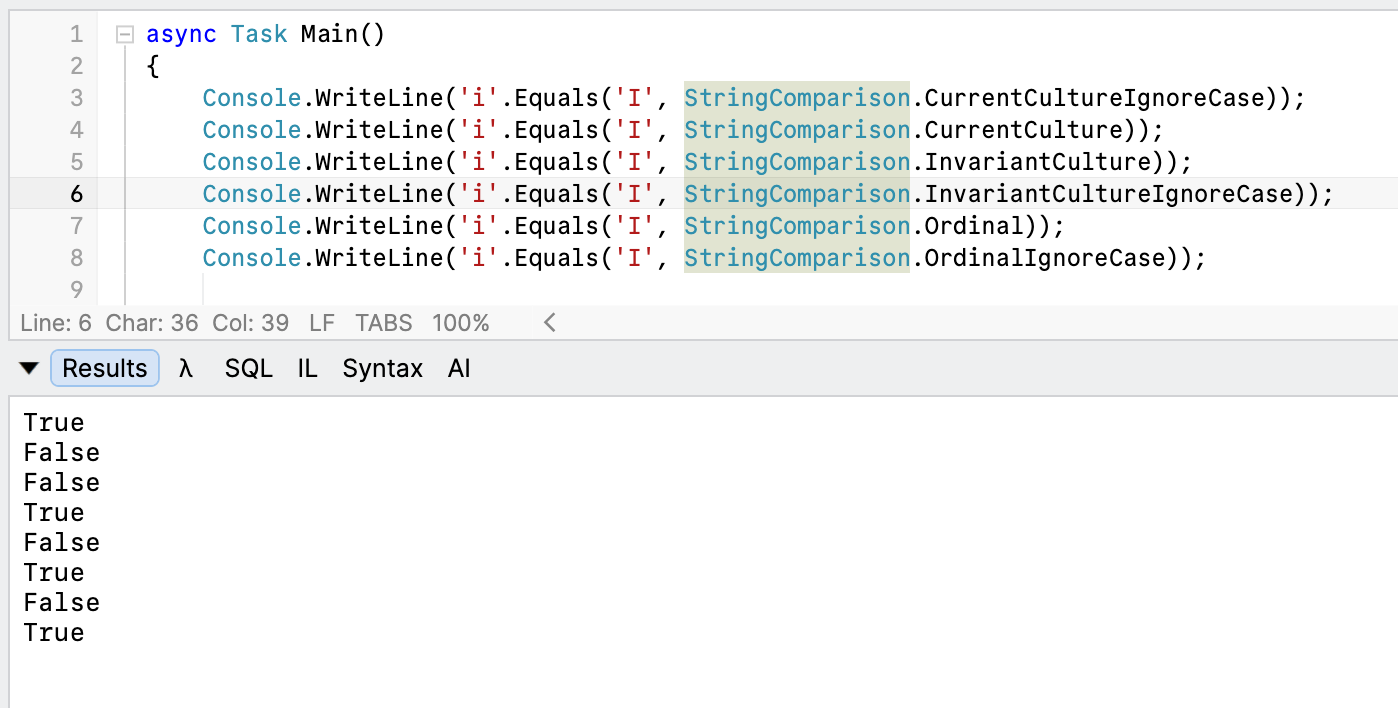
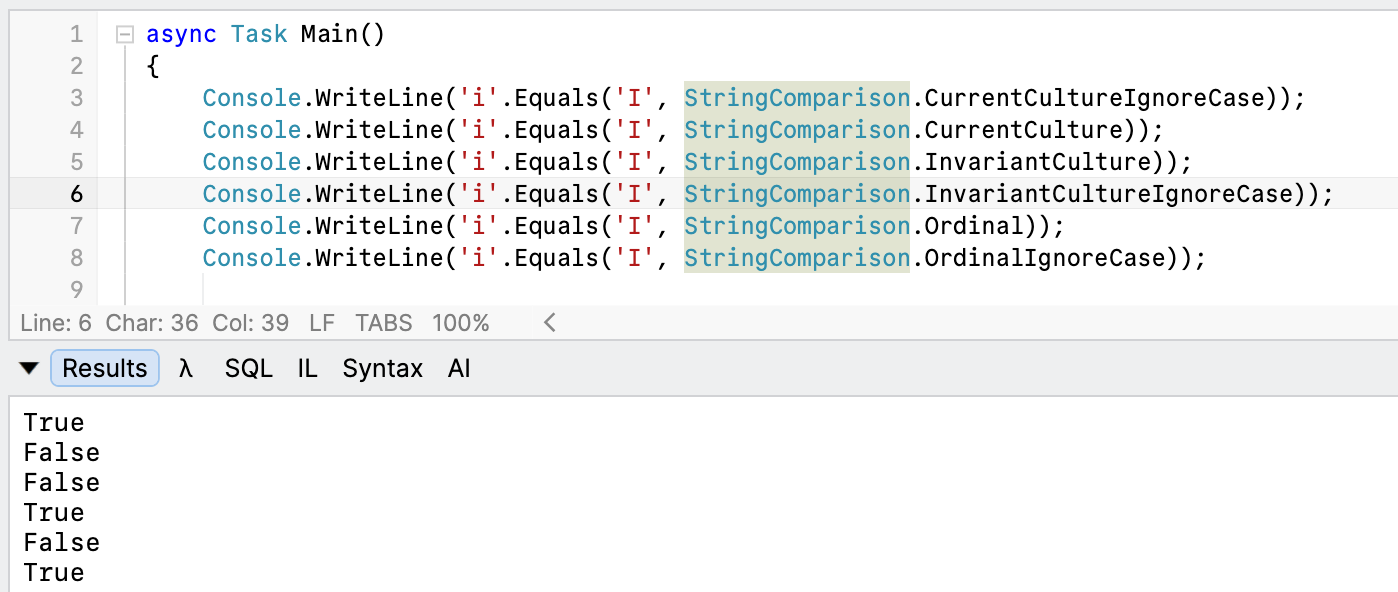
Minor edit

diff --git a/_posts/2026-07-12-net-11-preview-character-equality-comparison.md b/_posts/2026-07-12-net-11-preview-character-equality-comparison.md
@@ -22,7 +22,7 @@ However, in .NET 10 and earlier, you don't have much choice when you use the [Eq
 Console.WriteLine('i'.Equals('I'));
 ```
 
-This takes only one parameter: the `char` to compare to`.` And therefore our example here will **always** return `false`.
+This takes only one parameter: the `char` to compare to. And therefore our example here will **always** return `false`.
 
 Luckily, there are ways to perform this comparison and still tell your code how to compare, but you have to convert the `char` to a [string](https://learn.microsoft.com/en-us/dotnet/api/system.string?view=net-10.0) first, then specify **how** to compare.
 